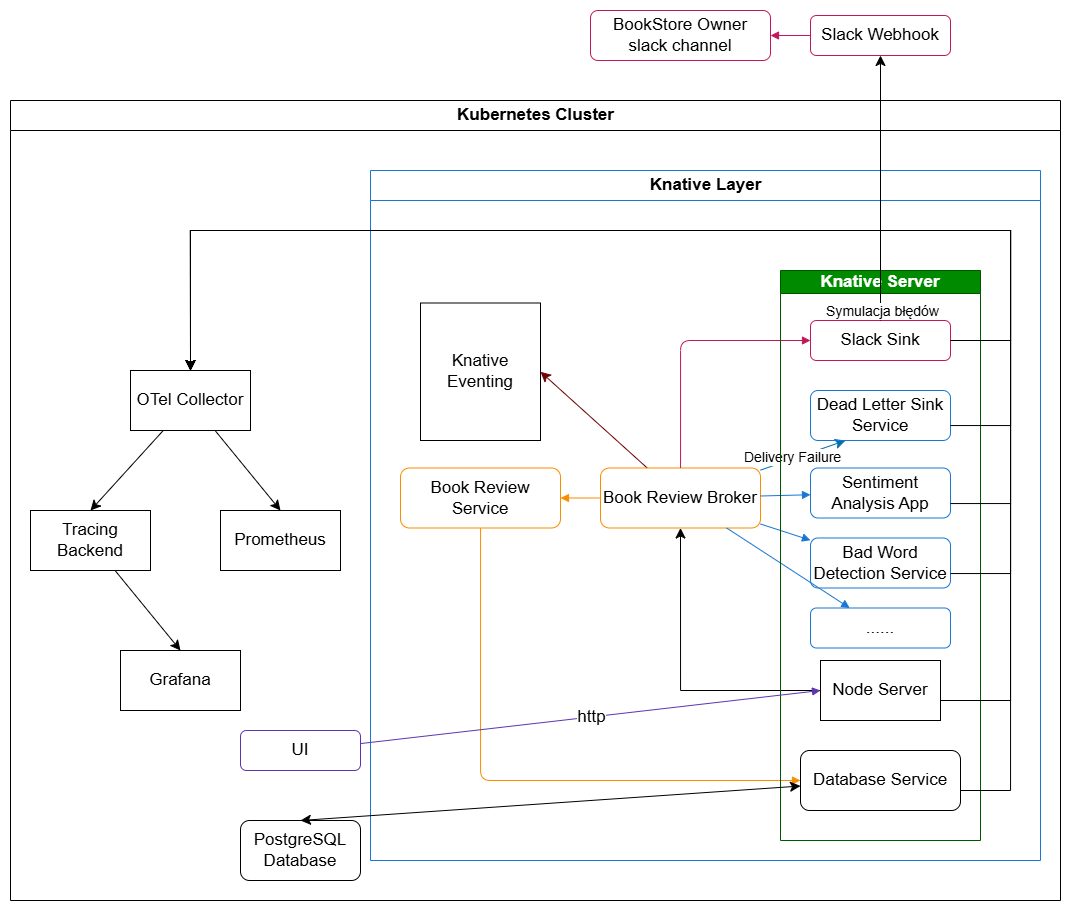
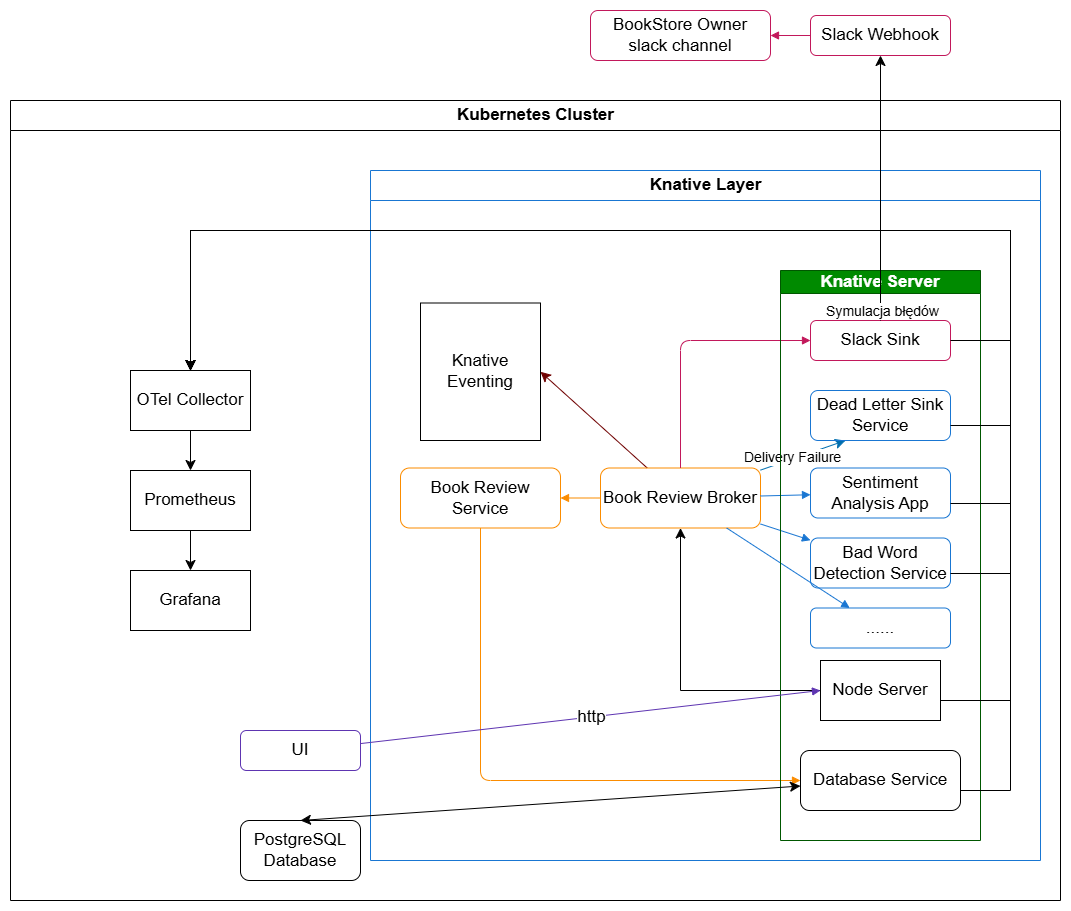
ReadMe OTel update + diagram fix

diff --git a/README.md b/README.md
@@ -189,83 +189,36 @@ System jest skonfigurowany do monitorowania dwóch głównych źródeł metryk:
 1. **Sam OpenTelemetry Collector**: Prometheus aktywnie skrobie metryki zdrowia i wydajności samego Collectora, zapewniając wgląd w jego działanie.  
 2. **Serwis node-server**: OpenTelemetry Collector skrobie metryki wystawiane przez serwis, a następnie przesyła je do Prometheusa. Ten model odciąża Prometheusa od bezpośredniego scrapowania aplikacji i pozwala na elastyczne przetwarzanie metryk przez Collector.
 
-#### **Przewodnik po Konfiguracji Systemu**
-
-Poniższe kroki przedstawiają kompletny proces instalacji i konfiguracji opisanego systemu telemetrii.
-
-1. **Instalacja Helm:**
-
-   ```Bash  
-   curl https://raw.githubusercontent.com/helm/helm/main/scripts/get-helm-3 | bash
-   ```
-2. **Dodanie repozytorium Helm dla Prometheus Community:**
-
-   ```Bash  
-   helm repo add prometheus-community [https://prometheus-community.github.io/helm-charts](https://prometheus-community.github.io/helm-charts)
-
-    helm repo update
-    ```
-
-3. **Tworzenie przestrzeni nazw monitoring:**
-
-    ```Bash 
-    kubectl create namespace monitoring
-    ```
-     
-4. **Instalacja kube-prometheus-stack przy użyciu Helm:** Pakiet ten zawiera Prometheus, Grafanę i Alertmanager, a także inne komponenty Kubernetes do monitorowania. Grafana jest skonfigurowana do wystawiania na NodePort 30000 dla łatwego dostępu.
-
-   ```Bash  
-   helm install prometheus prometheus-community/kube-prometheus-stack \
-     --namespace monitoring \
-     --set grafana.service.type=NodePort \
-     --set grafana.service.nodePort=30000 \
-     --set prometheus.prometheusSpec.maximumStartupDurationSeconds=60
-     ```
-5. **Weryfikacja instalacji Prometheus:** Sprawdź, czy pody Prometheus są uruchomione.
-
-   ```Bash  
-   kubectl --namespace monitoring get pods -l "release=prometheus"
-   ```
-6. **Weryfikacja instalacji Grafany:** Sprawdź, czy pody Grafana są uruchomione.
-
-   ```Bash  
-   kubectl get pods -n monitoring -l app.kubernetes.io/name=grafana
-   ```
-7. **Pobranie hasła administratora Grafany:**
-
-   ```Bash  
-   kubectl get secret -n monitoring prometheus-grafana -o jsonpath="{.data.admin-password}" | base64 --decode
-   ```
-
-![](images\OTel_password_guide_1.png)
-
-wynik polecenia służącego do pobrania i dekodowania hasła administratora Grafany
-
-8. **(Opcjonalnie) Wdrożenie OpenTelemetry Collector:** Poniższe komendy aplikują konfigurację Collectora, jego Deployment, Service, RBAC oraz ServiceMonitor. Należy upewnić się, że pliki YAML są wcześniej poprawione (np. port 8888 dla wewnętrznych metryk Collectora i prawidłowe uprawnienia RBAC).
-
-   ```Bash  
-   kubectl apply -f otel-collector/otel-collector-rbac.yaml  
-   kubectl apply -f otel-collector/otel-collector-configmap.yaml  
-   kubectl apply -f otel-collector/otel-collector-deployment.yaml  
-   kubectl apply -f otel-collector/otel-collector-config.yaml  
-   kubectl apply -f otel-collector/otel-collector-servicemonitor.yaml
-   ```
-
-Ten krok zakłada, że pliki YAML znajdujące się w otel-collector/ zostały wcześniej zaktualizowane i zawierają prawidłowe konfiguracje, w tym poprawne porty i uprawnienia.
-
 ### **Wizualizacja i Weryfikacja Systemu Monitorowania**
 
 Poniższe zrzuty ekranu stanowią wizualne potwierdzenie poprawnego wdrożenia oraz funkcjonalności systemu telemetrii. Prezentują kluczowe aspekty od dostępu do interfejsów, przez status celów skrobania, aż po wizualizację zebranych metryk.
 
+![](images\OTel_otel-collector_console_1.png)
+
+Ten zrzut ekranu przedstawia fragment logów z kontenera OpenTelemetry Collector, uruchomionego w konsoli (najprawdopodobniej za pomocą `kubectl logs`)
+
+![](images\OTel_prometheus_data_access_test_1.png)
+
+Ten zrzut ekranu przedstawia widok interfejsu użytkownika Prometheus (zakładka "Graph" lub "Table"), wyświetlający konkretną metrykę pochodzącą z bazy danych PostgreSQL, która została zebrana przez `postgres-exporter`, przetworzona przez OpenTelemetry Collector i przesłana do Prometheus.
+
+![](images\OTel_grafana_node-server_visualtisation_1.png)
+
+Ten zrzut ekranu przedstawia panel nawigacyjny w Grafanie, który wizualizuje metryki serwera (nody). Metryki te są najprawdopodobniej zbierane przez Node Exporter. 
+
 ![](images\OTel_example_grafana_1.png)
+
 Ten pulpit Grafany, również z Node Exporter, stosuje metodę USE (Utilization, Saturation, Errors) do zagregowanych metryk na poziomie całego klastra. Dostarcza szybkiego wglądu w ogólny stan wydajności i potencjalne problemy w klastrze  
+
 ![](images\OTel_example_grafana_2.png)
 
 Pulpit Node Exporter w Grafanie, który wizualizuje metryki dotyczące zasobów dla każdego pojedynczego węzła w klastrze Kubernetes. Umożliwia monitorowanie zużycia CPU, pamięci i sieci dla poszczególnych maszyn.
 
 ![](images\OTel_example_grafana_3.png)
+
 Pulpit nawigacyjny Grafany prezentujący ogólny przegląd stanu i wydajności serwera Prometheus. Wizualizuje kluczowe metryki działania samego systemu Prometheus.  
+
 ![](images\OTel_example_prometeus_1.png)
+
 Ten widok z interfejsu użytkownika Prometheus przedstawia listę wszystkich celów (targets) monitorowania. Wskazuje ich status (UP/DOWN) oraz szczegóły skrobania, potwierdzając, czy Prometheus skutecznie zbiera metryki ze skonfigurowanych źródeł.
 
 ## **Opis Działania Aplikacji**
